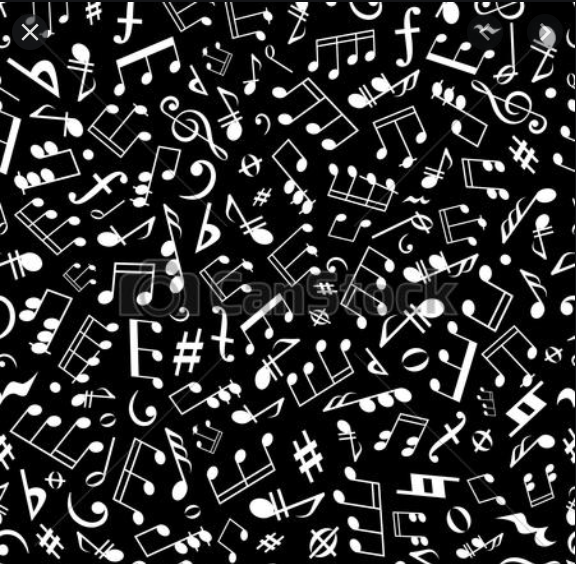
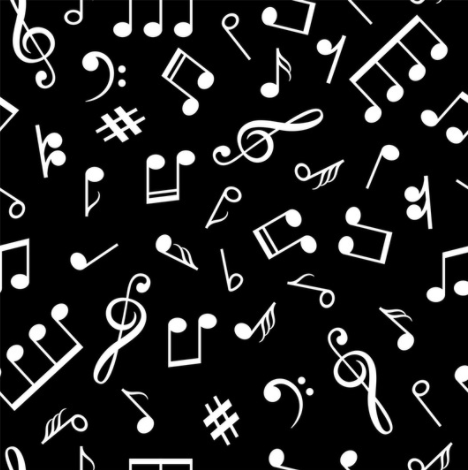
achtergrond toegevoegd

diff --git a/website/css/style.css b/website/css/style.css
@@ -1,0 +1,14 @@
+*,
+*::before,
+*::after {
+  padding: 0%;
+  margin: 0%;
+  box-sizing: border-box;
+}
+body {
+  width: 100%;
+  height: 100%;
+  background-image: url(../images/background.png);
+  background-size: 25vw auto;
+  background-repeat: repeat;
+}
